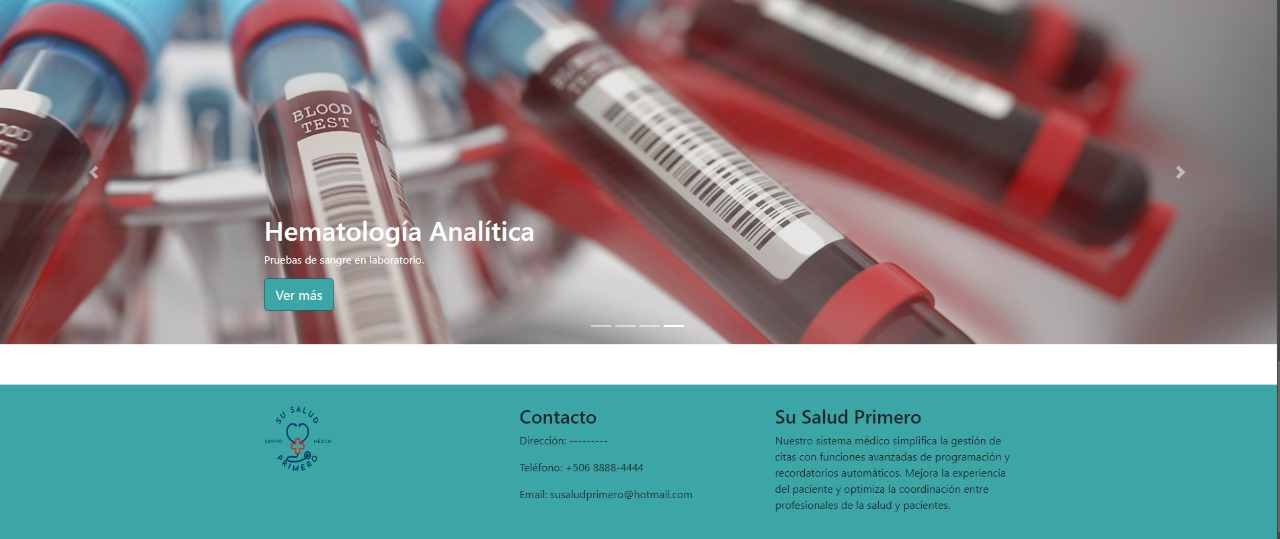
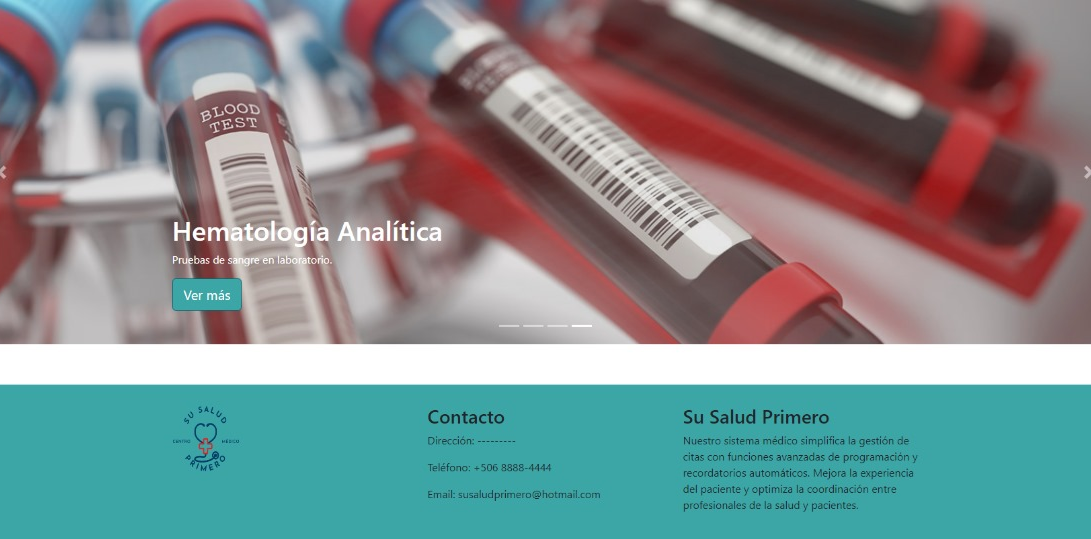
Update Arreglos_FuncionalidadWhatsapp

diff --git a/index.html b/index.html
@@ -31,6 +31,7 @@
 
   <!-- SweetAlert -->
   <script src="https://cdn.jsdelivr.net/npm/sweetalert2@11"></script>
+  
 </head>
 
 <body>
@@ -601,12 +602,16 @@
             </div>
 
             <div class="modal-footer">
-              <button type="button" class="btn btn-secondary lang es" data-bs-dismiss="modal">
-                Cerrar
-              </button>
-              <button type="button" class="btn btn-secondary lang en" data-bs-dismiss="modal">
-                Close
-              </button>
+              <div class="lang es">
+                <button type="button" class="btn btn-secondary lang es" data-bs-dismiss="modal">
+                  Cerrar
+                </button>
+              </div>
+              <div class="lang en">
+                <button type="button" class="btn btn-secondary lang en" data-bs-dismiss="modal">
+                  Close
+                </button>
+              </div>                     
             </div>
           </div>
         </div>
@@ -756,11 +761,25 @@
           <img src="https://cdn-icons-png.flaticon.com/512/732/732200.png" alt="Email">
           gabriel.caravaca9@gmail.com
         </p>
-        <p>
-          <img src="https://cdn-icons-png.flaticon.com/512/724/724664.png" alt="Phone">
-          +503 8977 - 6523
-        </p>
+        <div class="pb-4">
+          <a class="btn btn-success w-100 mb-4" href="https://wa.me/50689776523" target="_blank">
+            <img src="Imagenes/Contacts/Whatsapp.png" alt="Phone">
+            +503 8977 - 6523
+          </a>
+          <a class="btn btn-dark w-100 mb-4" href="https://github.com/GabrielCaravacaGarrido">
+            <img src="Imagenes/Contacts/GitHub.png" alt="GitHub">
+            GitHub
+          </a><br/>
+          <a class="btn btn-primary w-100" href="https://www.linkedin.com/in/gabriel-caravaca-garrido-421335313/">
+            <img src="Imagenes/Contacts/Linkedin.png" alt="LinkedIn">
+            LinkedIn
+          </a>
+        </div>
 
+
+
+
+        <!--
         <div class="d-flex justify-content-center" id="OtherContacts">
           <a class="btn btn-dark" href="https://github.com/GabrielCaravacaGarrido">
             <img src="Imagenes/Contacts/GitHub.png" alt="GitHub">
@@ -771,6 +790,7 @@
             LinkedIn
           </a>
         </div>
+        -->
       </div>
     </div>
 

diff --git a/style.css b/style.css
@@ -260,7 +260,7 @@ input:checked + .slider:before {
 
 .carousel-inner{
   justify-content: center;
-  align-items: center;
+  align-items: center !important;
   height: 80vh;
 }
 
@@ -367,19 +367,10 @@ input:checked + .slider:before {
 
 
 .contacts-container{
-  padding: 0 28vw !important;
+  padding: 0 26vw !important;
 }
 
 .contacts-container img{
   margin-right: 0.6vw;
   width: 2vw;
-}
-
-#OtherContacts{
-  gap: 2vw;
-}
-
-#OtherContacts a{
-  padding: 1vh 2vw;
-  font-size: medium;
 }
